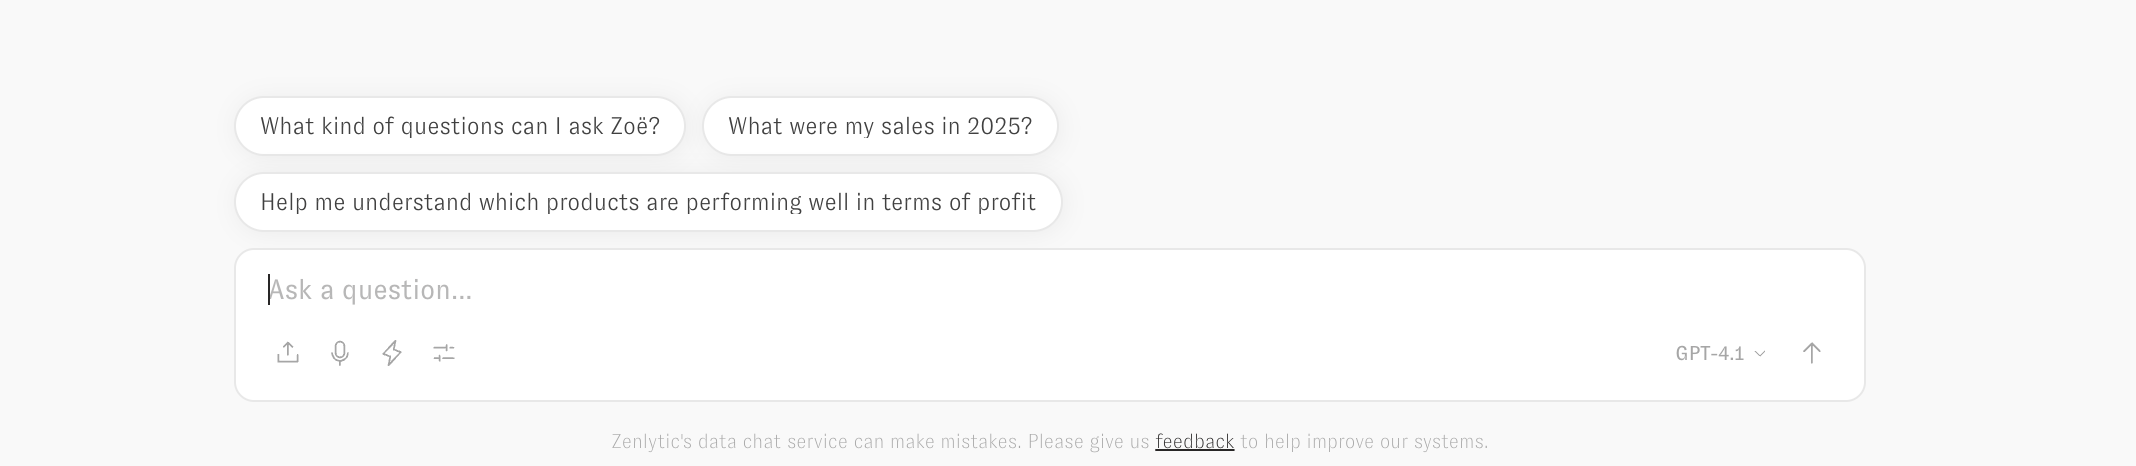
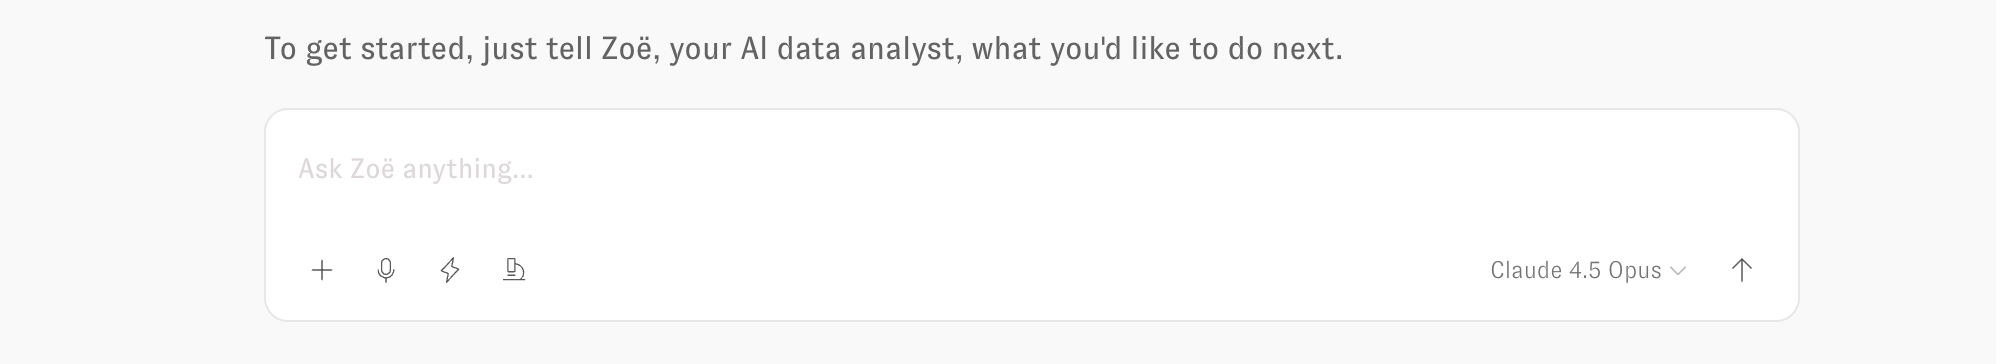
chat v2 updates

diff --git a/zenlytic-ui/clarity_engine.md b/zenlytic-ui/clarity_engine.md
@@ -16,8 +16,7 @@ layout:
 ---
 
 # Clarity Engine
-
-The Clarity Engine serves as the backbone of Zenlytic's LLM-based agent, Zoë, enabling you to transform raw facts to confident decisions. The Clarity Engine operates in two distinctive modes: the Default Mode with Dynamic Fields for structured analysis governed by your semantic model, and Exploratory Mode for more advanced, raw SQL-based analysis that extend beyond the boundaries of the semantic model.
+The Clarity Engine serves as the backbone of Zenlytic's LLM-based agent, Zoë, enabling you to transform raw facts to confident decisions. The Clarity Engine operates in two distinctive modes: the **Default Mode** with Dynamic Fields for structured analysis governed by your semantic model, and **Exploratory Mode** for more advanced, raw SQL-based analysis that extend beyond the boundaries of the semantic model.
 
 ## Just ask!
 
@@ -31,9 +30,9 @@ You can ask Zoë specific questions (e.g. "Show me sales YTD compared to the pri
 
 The chat interface includes several interactive elements:
 
+* **Plus icon**: Add attachments to your message, including images (5MB limit), CSVs, and PDFs (maximum 5 files, 25MB total), and data via the query builder
 * **Microphone icon**: Click to use voice input - Zoë will capture your prompt through real-time voice transcription via your web browser
-* **Lightning icon**: Opens a panel to select and run a Workflow (analytical processes that you or your team have set up previously)
-* **Upload icon**: Add file attachments to your message, including images (5MB limit), CSVs, and PDFs (maximum 5 files, 25MB total)
+* **Lightning icon**: Opens a panel to select and run a Proactive Agent
 * **Model dropdown**: Located on the right side of the input area, this allows you to change the base LLM used for Zenlytic's LLM-based agent
 * **Chat Options**: Opens a toggle for Exploratory mode; when enabled, you'll see a microscope icon appear in the chat input (shown below)
 * **Submit**: Press "Enter" or click the up arrow button to send your message

diff --git a/zenlytic-ui/legacy.md b/zenlytic-ui/legacy.md
@@ -1,0 +1,27 @@
+---
+layout:
+  width: default
+  title:
+    visible: true
+  description:
+    visible: false
+  tableOfContents:
+    visible: true
+  outline:
+    visible: true
+  pagination:
+    visible: true
+  metadata:
+    visible: true
+---
+
+# Unsupported Conversations
+
+The Zenlytic web application currently supports `v2` conversations and workflows. For various reasons, a previous conversation may become no longer supported to continue. These reasons include:
+- updated workspace preferences and network security rules
+- changes to underlying LLM model availability and compatibility
+- updates to Zenlytic services
+
+While you can still navigate to unsupported conversations, interact with their tool calls and contents, and download linked files and data, unsupported conversations will have a banner on the bottom of the screen preventing access to the chat input. In order to continue the unsupported conversation with new messages, select a new LLM model and click the Arrow button to migrate the unsupported conversation into a supported conversation. The dropdown list of LLM models will only contain the models that are compatible with the current conversation and latest version of Zenlytic. When the Arrow button is pressed, a new conversation will be created from each user message as it is re-played with the new LLM model. The chat input will become available again when Zoe has finished running.
+
+![Unsupported Conversations](../.gitbook/assets/unsupported_conversations.png)

diff --git a/zenlytic-ui/using_zenlytic.md b/zenlytic-ui/using_zenlytic.md
@@ -4,7 +4,7 @@ Zenlytic is a LLM-powered AI data analyst (Zoë) that helps you go from facts to
 
 ## How to get answers
 
-* **Zoë**
+* **[Zoë](zoe.md)**
   * Zoë is an AI data analyst who uses your cognitive layer to answer questions about your data for you. She can answer questions about anything you can query using the [explore](exploring.md) interface, create and add plots to a dashboard, use a code interpreter to answer complex data science questions, and integrates with both Slack and Microsoft Teams.
 * [Explore](exploring.md)
   * The explore question is a general purpose interface where you can answer the "What" questions that lead into the "Why" questions. For example, you could look at number of customers by acquisition channel who have spent more than $200 in the last 3 months in this question type. You can [slice](exploring.md#slicing) and [filter](exploring.md#filtering) key metrics easily.
